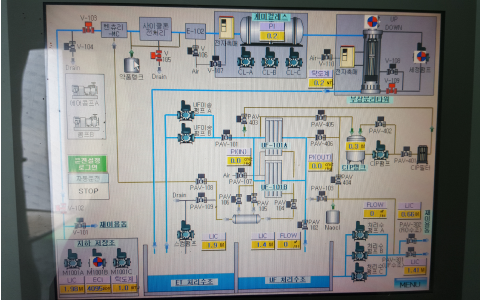
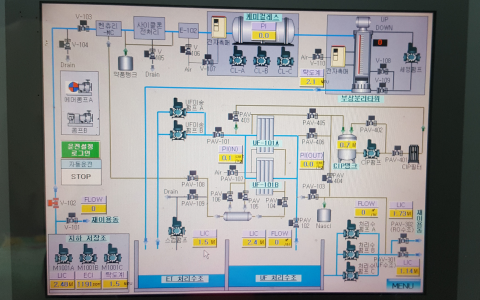
fix: leachatePD text, GreenAlgaePD img modify

diff --git a/src/pages/Products/Leachate/Leachate.js b/src/pages/Products/Leachate/Leachate.js
@@ -66,7 +66,7 @@ const Leachate = () => {
             <MainContainer>
                 <SubColumnContainer>
                     <SubLargeTitle>
-                        축산분뇨 처리 프로세스
+                        침출수 처리 프로세스
                     </SubLargeTitle>
                     <FullSubContent>
                         BlueBS의 맞춤형 촉매 전극은 축산분뇨 처리에 있어 효과적이며, 유지보수 및 에너지 절감을 지원하는 동시에 환경오염 감소에 기여하는 친환경적인 솔루션을 제공합니다.
@@ -127,7 +127,7 @@ const Leachate = () => {
                 </SubColumnContainer>
                 <SubColumnContainer>
                     <SubTitle>
-                        실제 적용 사례: 녹조 제거 및 저수지 복원
+                        실제 적용 사례: 침출수 처리
                     </SubTitle>
                     <Carousel imgJson={imgJson} />
                 </SubColumnContainer>

diff --git a/src/pages/Products/GreenAlgae/GreenAlgae.js b/src/pages/Products/GreenAlgae/GreenAlgae.js
@@ -12,6 +12,7 @@ import applyImg1 from '../../../assets/Products/GreenAlgae/apply1.png'
 import applyImg2 from '../../../assets/Products/GreenAlgae/apply2.png'
 import applyImg3 from '../../../assets/Products/GreenAlgae/apply3.png'
 import applyImg4 from '../../../assets/Products/GreenAlgae/apply4.png'
+import applyImg5 from '../../../assets/Products/GreenAlgae/apply5.png'
 //style
 import {
     TitleBar,
@@ -54,6 +55,10 @@ const GreenAlgae = () => {
         },
         {
             src: applyImg4,
+            alt: 'applyImg'
+        },
+        {
+            src: applyImg5,
             alt: 'applyImg'
         },
     ];
